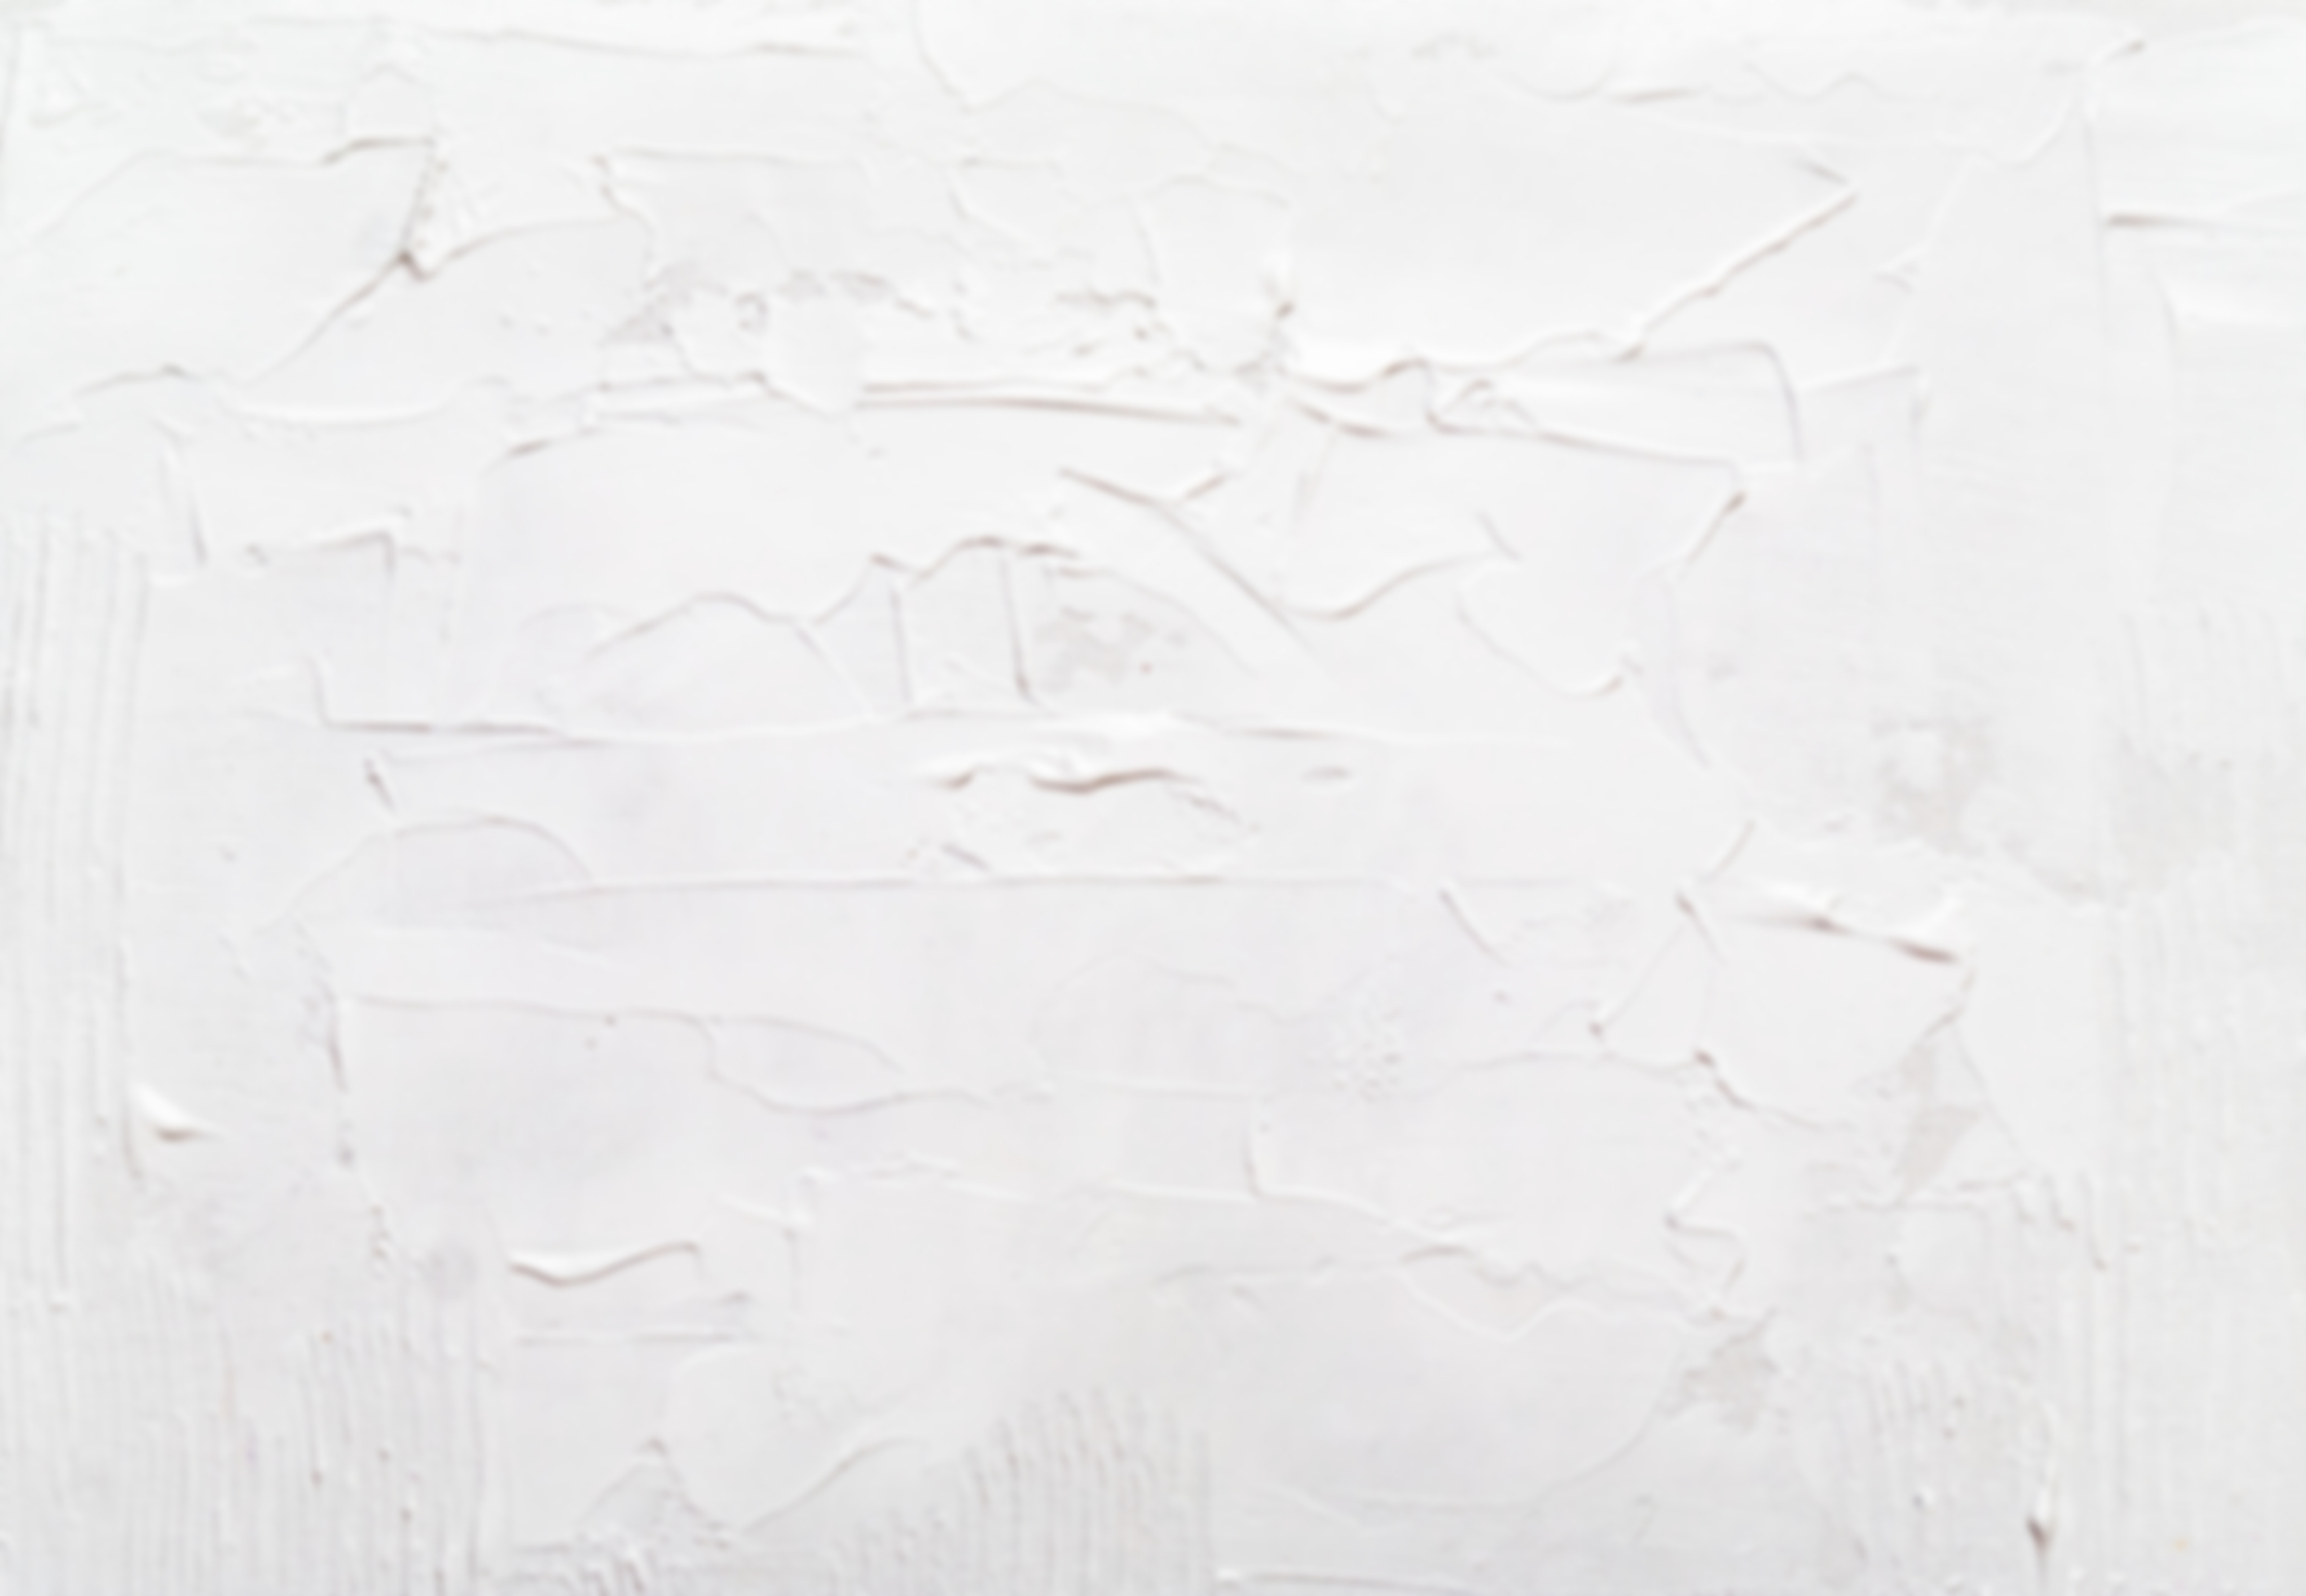
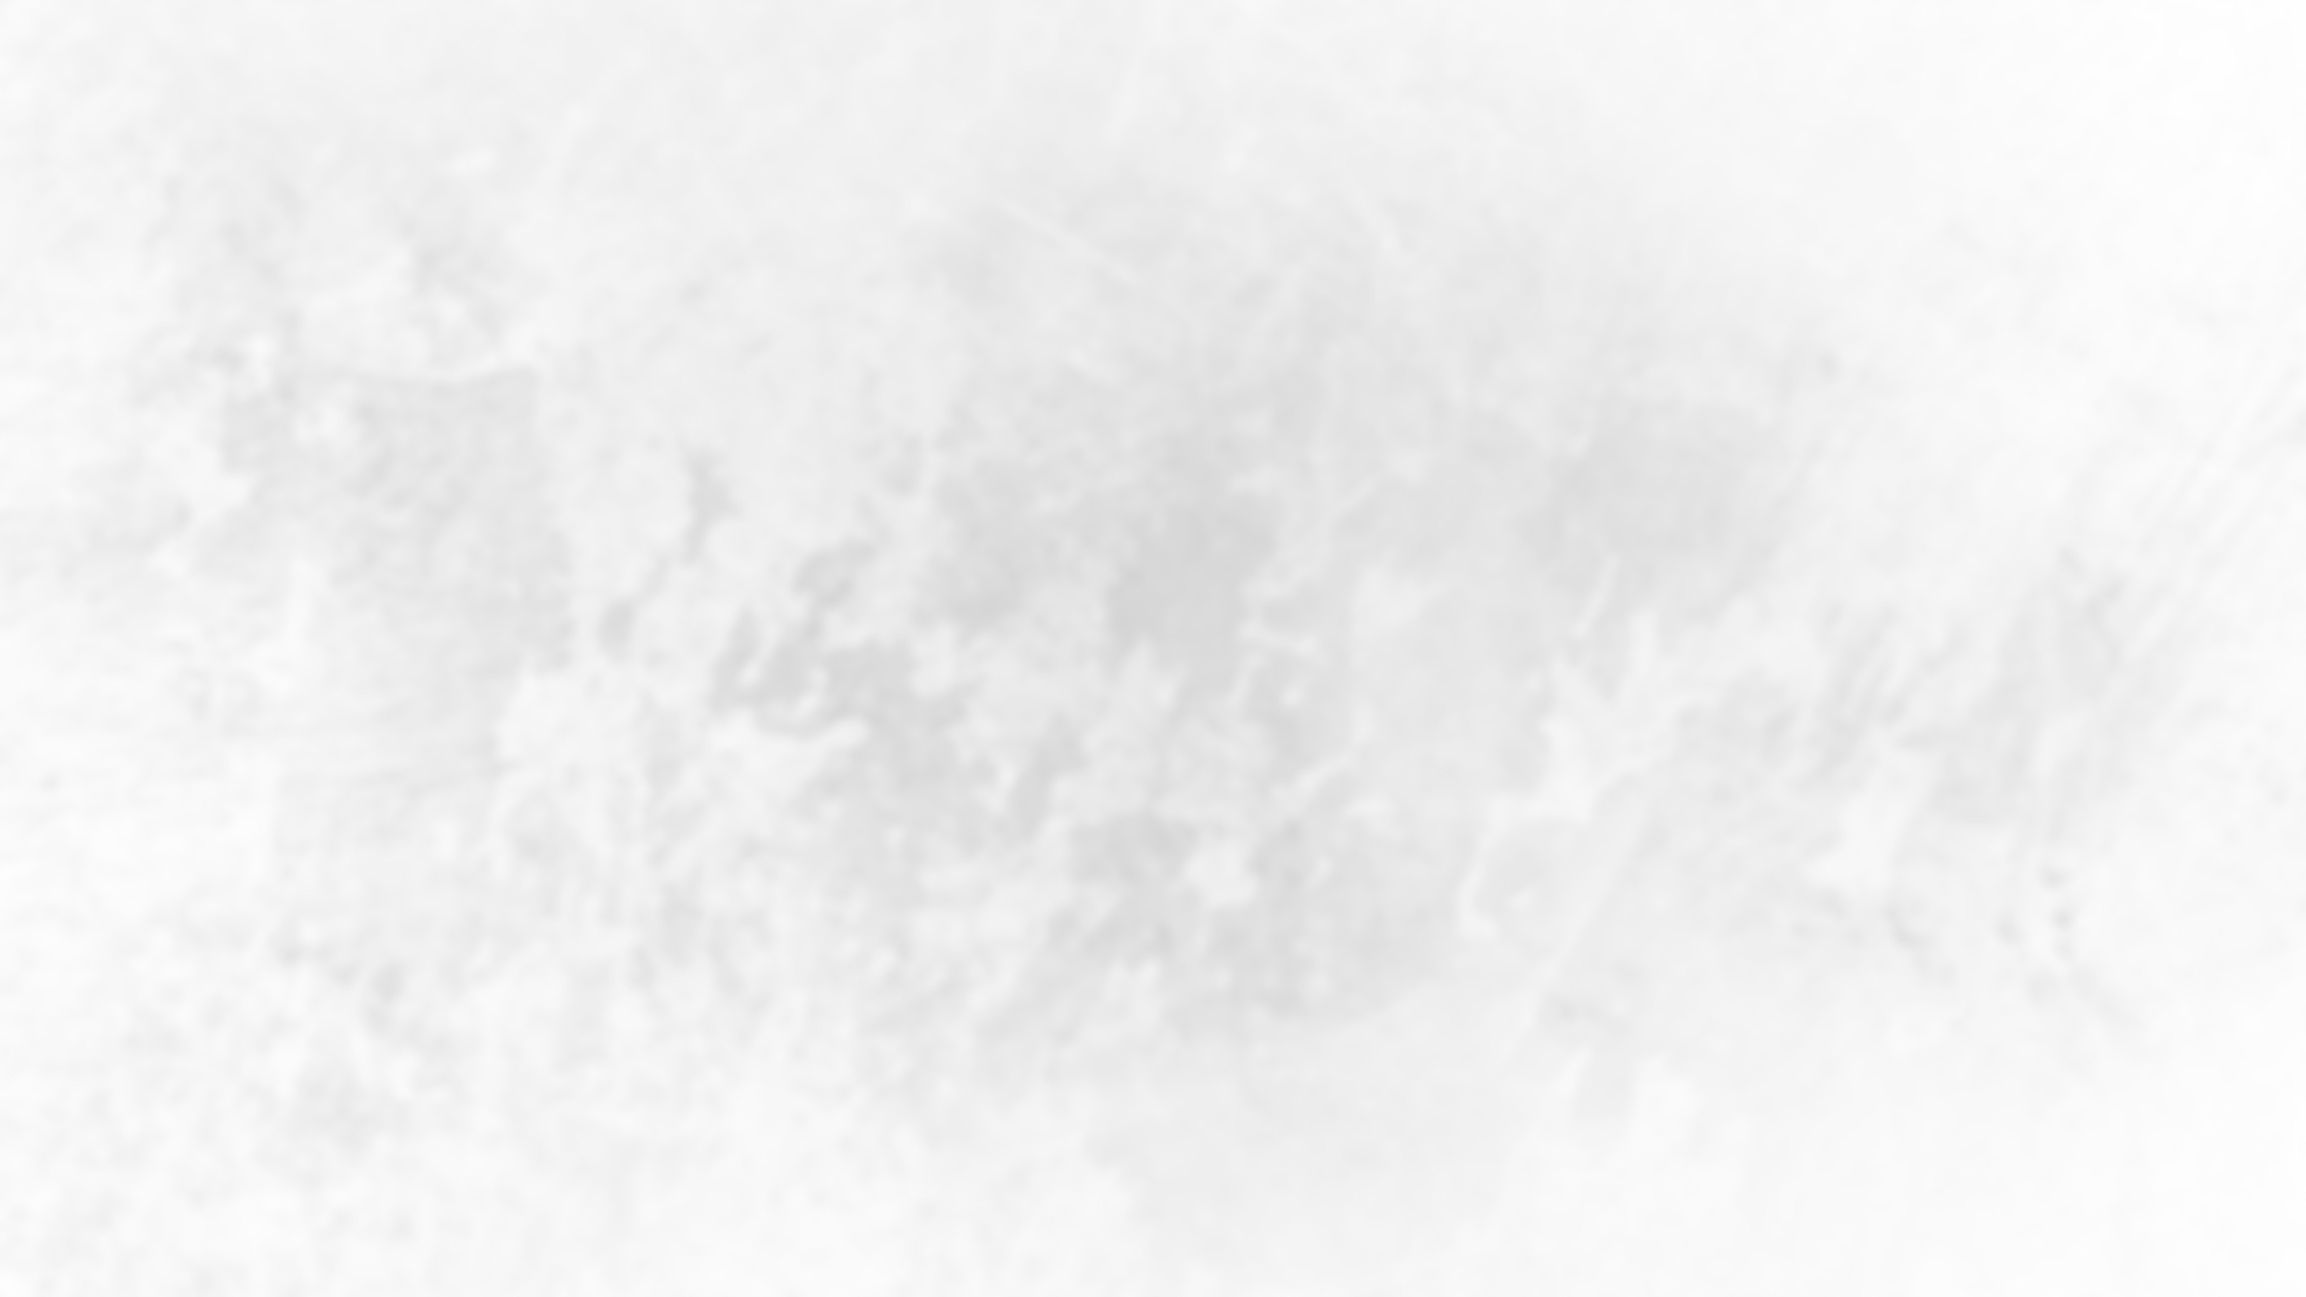
Fixed backgrounds - Added overlay

diff --git a/main.js b/main.js
@@ -384,30 +384,64 @@ let modeIcon = document.querySelector("i.mode");
 var r = document.querySelector(":root");
 var rs = getComputedStyle(r);
 
+let buddy = document.querySelector("body");
+let overlay = document.querySelector(".overlay");
+
 modeIcon.addEventListener("click", function () {
   if (rs.getPropertyValue("--secondColor") == "#e9e9e9") {
+    overlay.style.setProperty("background-color", "#121212a2");
+
     r.style.setProperty("--secondColor", "#121212");
-    document.body.style.background = "url(../media/Images/darkbgblur.jpg)";
-    document.body.style.backgroundSize = "cover";
-    input.style.background = "url(../media/Images/inputbg.jpg)";
-    input.style.backgroundSize = "cover";
-    addTask.style.background = "url(../media/Images/smallinputbg.jpg)";
-    addTask.style.backgroundSize = "cover";
+
+    buddy.style.setProperty("background", "url(./media/Images/darkbgblur.jpg)");
+    buddy.style.setProperty("background-size", "cover");
+
+    input.style.setProperty("background", "url(./media/Images/inputbg.jpg)");
+    input.style.setProperty("background-size", "cover");
+
+    addTask.style.setProperty(
+      "background",
+      "url(./media/Images/smallinputbg.jpg)"
+    );
+    addTask.style.setProperty("background-size", "cover");
+
     document.querySelectorAll(".delBtn").forEach((btn) => {
-      btn.style.background = "url(../media/Images/smallinputbg.jpg)";
-      btn.style.backgroundSize = "cover";
+      btn.style.setProperty(
+        "background",
+        "url(./media/Images/smallinputbg.jpg)"
+      );
+      btn.style.setProperty("background-size", "cover");
     });
   } else {
+    overlay.style.setProperty("background-color", "#e9e9e9a2");
+
     r.style.setProperty("--secondColor", "#e9e9e9");
-    document.body.style.background = "url(../media/Images/lightbgblur.jpg)";
-    document.body.style.backgroundSize = "cover";
-    input.style.background = "url(../media/Images/lightinputbg.jpg)";
-    input.style.backgroundSize = "cover";
-    addTask.style.background = "url(../media/Images/lightsmallinputbg.jpg)";
-    addTask.style.backgroundSize = "cover";
+
+    buddy.style.setProperty(
+      "background",
+      "url(./media/Images/lightbgblur.jpg)"
+    );
+    buddy.style.setProperty("background-size", "cover");
+
+    input.style.setProperty(
+      "background",
+      "url(./media/Images/lightinputbg.jpg)"
+    );
+    input.style.setProperty("background-size", "cover");
+
+    addTask.style.setProperty(
+      "background",
+      "url(./media/Images/lightsmallinputbg.jpg)"
+    );
+    addTask.style.setProperty("background-size", "cover");
+
     document.querySelectorAll(".delBtn").forEach((btn) => {
-      btn.style.background = "url(../media/Images/lightsmallinputbg.jpg)";
-      btn.style.backgroundSize = "cover";
+      btn.style.setProperty(
+        "background",
+        "url(./media/Images/lightsmallinputbg.jpg)"
+      );
+
+      btn.style.setProperty("background-size", "cover");
     });
   }
 });

diff --git a/css/style.css b/css/style.css
@@ -73,6 +73,16 @@ body {
   color: var(--secondColor);
 }
 
+.overlay {
+  width: 100%;
+  height: 80px;
+  background-color: #121212a2;
+  position: absolute;
+  top: 0;
+  left: 0;
+  display: none;
+}
+
 .container {
   margin: 60px 0 20px;
   display: flex;
@@ -190,8 +200,6 @@ ul.info {
   top: 70px;
   font-size: 22px;
   white-space: nowrap;
-  animation: pop 2s ease-in-out 4.5s;
-  -webkit-animation: pop 2s ease-in-out 5.5s;
 }
 
 .form {
@@ -413,8 +421,7 @@ i.fa-angles-up:hover {
 }
 
 .delBtn:hover {
-  background-image: none;
-  background-color: red;
+  background: red !important;
   color: var(--secondColor);
   animation: vibr 0.5s linear infinite alternate;
   -webkit-animation: vibr 0.5s linear infinite alternate;
@@ -650,7 +657,7 @@ footer h2 {
 @media (max-width: 1024px) {
   ul.info {
     width: 365px;
-    left: -70px;
+    left: -80px;
     top: 50px;
     font-weight: normal;
     font-size: 18px;
@@ -705,12 +712,18 @@ footer h2 {
   }
   .time {
     top: 25px;
+    z-index: 1000;
+  }
+  .overlay {
+    display: block;
   }
 }
 
 @media (min-width: 768px) {
   .time {
     cursor: pointer;
+    animation: pop 2s ease-in-out 4.5s;
+    -webkit-animation: pop 2s ease-in-out 5.5s;
   }
 }
 

diff --git a/index.html b/index.html
@@ -16,6 +16,7 @@
   </head>
   <body>
     <div class="container">
+      <div class="overlay"></div>
         <i class="fa-solid fa-circle-half-stroke mode"></i>
         <i class="fa-solid fa-palette color">
           <input type="color">
